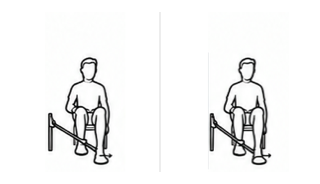
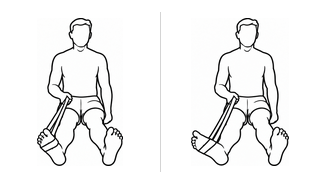
fix: correct exercise illustration candidates and incompatible aliases

Changed region(s): [[0.5938, 0.0815, 0.9062, 0.9239], [0.0938, 0.0815, 0.4062, 0.8967], [0.8125, 0.2717, 0.8438, 0.2989]]

diff --git a/scripts/normalize-movement-override.py b/scripts/normalize-movement-override.py
@@ -1,0 +1,51 @@
+"""Mechanically frame generated two-panel sources; never redraw their anatomy.
+
+Requires Python 3 and Pillow (see movement-art-requirements.txt).
+"""
+import sys
+import os
+import tempfile
+from pathlib import Path
+from PIL import Image, ImageDraw
+
+
+def normalize(source_path, output_path):
+    source = Image.open(source_path).convert('RGB')
+    width, height = source.size
+    middle = width // 2
+    inset = max(2, width // 100)
+    phases = [source.crop((0, 0, middle - inset, height)),
+              source.crop((middle + inset, 0, width, height))]
+    bounds = []
+    for phase in phases:
+        mask = phase.convert('L').point(lambda p: 255 if p < 184 else 0)
+        box = mask.getbbox()
+        if box is None:
+            raise ValueError('Each phase must contain visible dark artwork')
+        bounds.append(box)
+    # One common scale preserves paired anatomy. Complete props count as ink.
+    top, bottom = min(b[1] for b in bounds), max(b[3] for b in bounds)
+    scale = min(136 / max(b[2] - b[0] for b in bounds), 148 / (bottom - top))
+    canvas = Image.new('RGB', (320, 184), 'white')
+    for center, phase, box in zip((80, 240), phases, bounds):
+        crop = phase.crop((box[0], top, box[2], bottom))
+        size = (max(1, round(crop.width * scale)), max(1, round(crop.height * scale)))
+        crop = crop.resize(size, Image.Resampling.LANCZOS)
+        canvas.paste(crop, (round(center - crop.width / 2), round(92 - crop.height / 2)))
+    ImageDraw.Draw(canvas).line((160, 12, 160, 171), fill=(212, 212, 212), width=1)
+    Path(output_path).parent.mkdir(parents=True, exist_ok=True)
+    # Readers must never observe a half-written/empty output.
+    with tempfile.NamedTemporaryFile(dir=Path(output_path).parent, suffix='.png', delete=False) as temp:
+        temporary = temp.name
+    try:
+        canvas.save(temporary, optimize=True)
+        os.replace(temporary, output_path)
+    finally:
+        if os.path.exists(temporary):
+            os.unlink(temporary)
+
+
+if __name__ == '__main__':
+    if len(sys.argv) != 3:
+        raise SystemExit('usage: normalize-movement-override.py <source> <output>')
+    normalize(*sys.argv[1:])

diff --git a/docs/visual-qa/2026-10-05-fixes/audit.md b/docs/visual-qa/2026-10-05-fixes/audit.md
@@ -1,0 +1,44 @@
+# 2026-10-05 illustration corrections
+
+Reference: main `6a18c78f582cf2424f40b9ba1e42e0c990d842d8`, the [first audit](../2026-10-05/audit.md), current v2 sheet and named runtime assets. This is implementation evidence, not independent visual or clinical acceptance. The PR head identifies the reviewed tree; `asset-hashes.csv` freezes all 43 before/after runtime SHA-256 values.
+
+## Six incompatible aliases
+
+Removed catalog aliases for bench press (dumbbells/barbell), shoulder press (seated dumbbells/standing barbell), squat (chair/barbell), lat pulldown and seated row (band/machine), and leg extension (chair single-leg/machine bilateral). Existing strength IDs and saved records remain compatible. New canonical choices use the existing text fallback until matching art is approved. Pull-up and dip retain their equivalent aliases. No exercise instructions were changed to match a picture.
+
+Registry regression passes: the six aliases resolve to no image; eight legacy paths remain stable; pull-up/dip share the intended URLs. Mapping mismatch removal passes; rendering at actual mobile size remains NOT VERIFIED.
+
+## Eight replacement candidates
+
+Sources are committed under `scripts/assets/movement-art-sources/overrides/audit-v3/`. Built-in image generation edited the current references; Python/Pillow only performs cropping, common scaling and framing. `prompts.json` records prompt specifications and revisions, not verbatim tool transcripts. No anatomy is programmatically redrawn.
+
+| Asset | Implemented correction | Visual | Movement | Safety representation | Mobile |
+| --- | --- | --- | --- | --- | --- |
+| shoulder-flexion | Forward reach limited to shoulder height | NOT VERIFIED | NOT VERIFIED | NOT VERIFIED | NOT VERIFIED |
+| shoulder-scapular-squeeze | Seated, hands on thighs, shoulder-blade retraction | NOT VERIFIED | NOT VERIFIED | NOT VERIFIED | NOT VERIFIED |
+| shoulder-external-rotation-band | Palms up, band between hands, elbows at sides | NOT VERIFIED | NOT VERIFIED | NOT VERIFIED | NOT VERIFIED |
+| shoulder-internal-rotation-band | Same-side anchor; hand moves toward abdomen | NOT VERIFIED | NOT VERIFIED | NOT VERIFIED | NOT VERIFIED |
+| ankle-band-inversion-eversion | Band around forefoot; revised outward phase | NOT VERIFIED | NOT VERIFIED | NOT VERIFIED | NOT VERIFIED |
+| shoulder-neck-thoracic-extension-chair | Supported seated upper-back extension, neutral neck | NOT VERIFIED | NOT VERIFIED | NOT VERIFIED | NOT VERIFIED |
+| knee-straight-leg-raise | Opposite foot planted; straight working leg raised low | NOT VERIFIED | NOT VERIFIED | NOT VERIFIED | NOT VERIFIED |
+| glute-bridge | Refined contour and conservative two-phase bridge | NOT VERIFIED | NOT VERIFIED | NOT VERIFIED | NOT VERIFIED |
+
+Disposition is PENDING acceptance for all eight. Author review is not independent validation. Particular review targets: ankle band resistance/motion clarity, bridge line weight against unchanged controls, opposite knee/support continuity in leg raise, shoulder rotation elbows/anchors and bounded range. Reject or revise any concrete mismatch before merge.
+
+## Reproduction and checks
+
+Install Python dependency with `python3 -m pip install -r scripts/movement-art-requirements.txt`. Regenerate only these eight:
+
+```sh
+node scripts/extract-movement-art.mjs --ids shoulder-flexion,shoulder-scapular-squeeze,shoulder-external-rotation-band,shoulder-internal-rotation-band,ankle-band-inversion-eversion,shoulder-neck-thoracic-extension-chair,knee-straight-leg-raise,glute-bridge
+```
+
+All eight outputs are byte-reproducible from committed sources. All 43 decode at 320×184; exactly eight changed and 35 are byte-unchanged. Build, npm test, exercise coverage (43/43), safety/i18n audit, JS syntax and diff whitespace checks passed. Pain >=6, red flags, SafetyGate, session guards and storage compatibility are covered by the existing regression suite; their implementation, routes and storage formats are unchanged. No new browser-specific code.
+
+Mobile gate remains NOT VERIFIED: CLI Chromium installation failed; cloud browser refused the local preview (`ERR_BLOCKED_BY_CLIENT`). Neither 320/375px browser rendering nor iOS Safari is claimed. Runtime picker, selected entry, Records and library use the existing shared registry; regression verifies registry resolution, not a browser walkthrough.
+
+## Independent screening packet
+
+`anonymous-comparison.png` has 16 equal-size cards: eight candidates and eight byte-unchanged controls. Give the reviewer only that sheet and `blind-response.csv`; withhold `comparison-key.csv` and this report until responses are frozen. Controls are comparison references, not newly certified movement approvals. The response file is entirely PENDING; no reviewer identity, guesses or results have been fabricated. This packet prepares an independent screening, not a completed blind trial.
+
+Tier 3: Claude review, ChatGPT PM synthesis and required image acceptance remain pending. Automated checks alone do not authorize image acceptance or merge.

diff --git a/docs/exercise-visual-qa.md b/docs/exercise-visual-qa.md
@@ -32,7 +32,7 @@ A verified `FAIL` blocks acceptance of the affected image or mapping. Missing re
 
 Each material finding includes file, observed behavior, risk, acceptance criterion and a source/reference. Use the existing P0/P1 severity definitions. A subjective preference without a concrete contract mismatch is not a blocker.
 
-Change the source and regenerate the runtime asset through the existing generator. Re-review the changed asset and affected aliases, confirm unrelated assets are byte-unchanged, and invalidate earlier approval when their hashes change. The extractor currently requires macOS; do not claim regeneration on Linux or hand-edit only generated PNGs.
+Change the source and regenerate the runtime asset through the existing generator. Re-review the changed asset and affected aliases, confirm unrelated assets are byte-unchanged, and invalidate earlier approval when their hashes change. Sheet extraction requires macOS. Manifest `overrideSource` entries can be normalized on Linux/macOS through `--ids` with Python 3 and `scripts/movement-art-requirements.txt`; do not hand-edit only generated PNGs.
 
 ## Anonymous consistency trial
 
